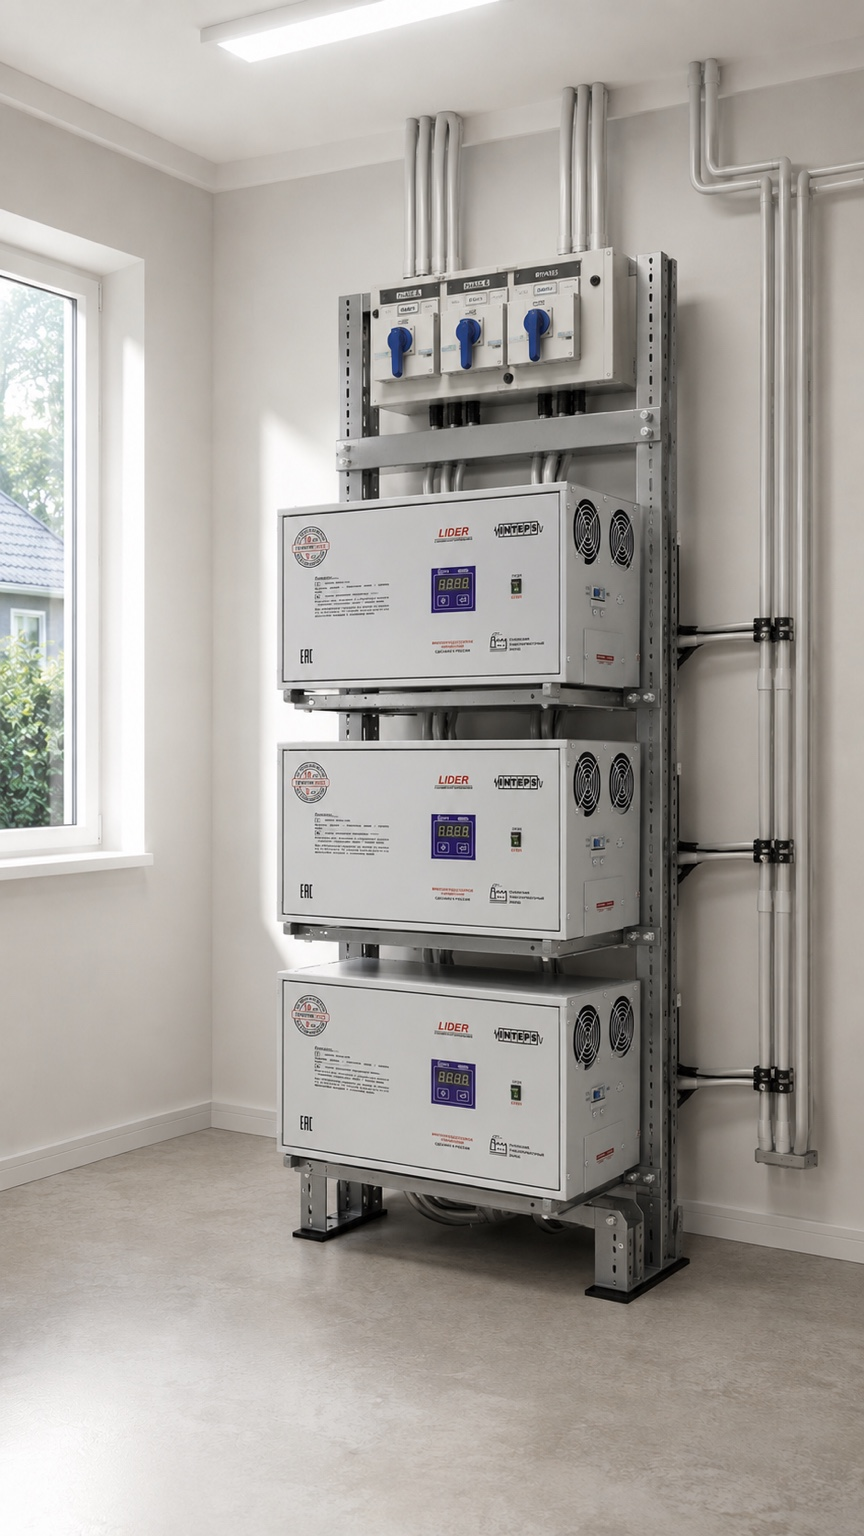
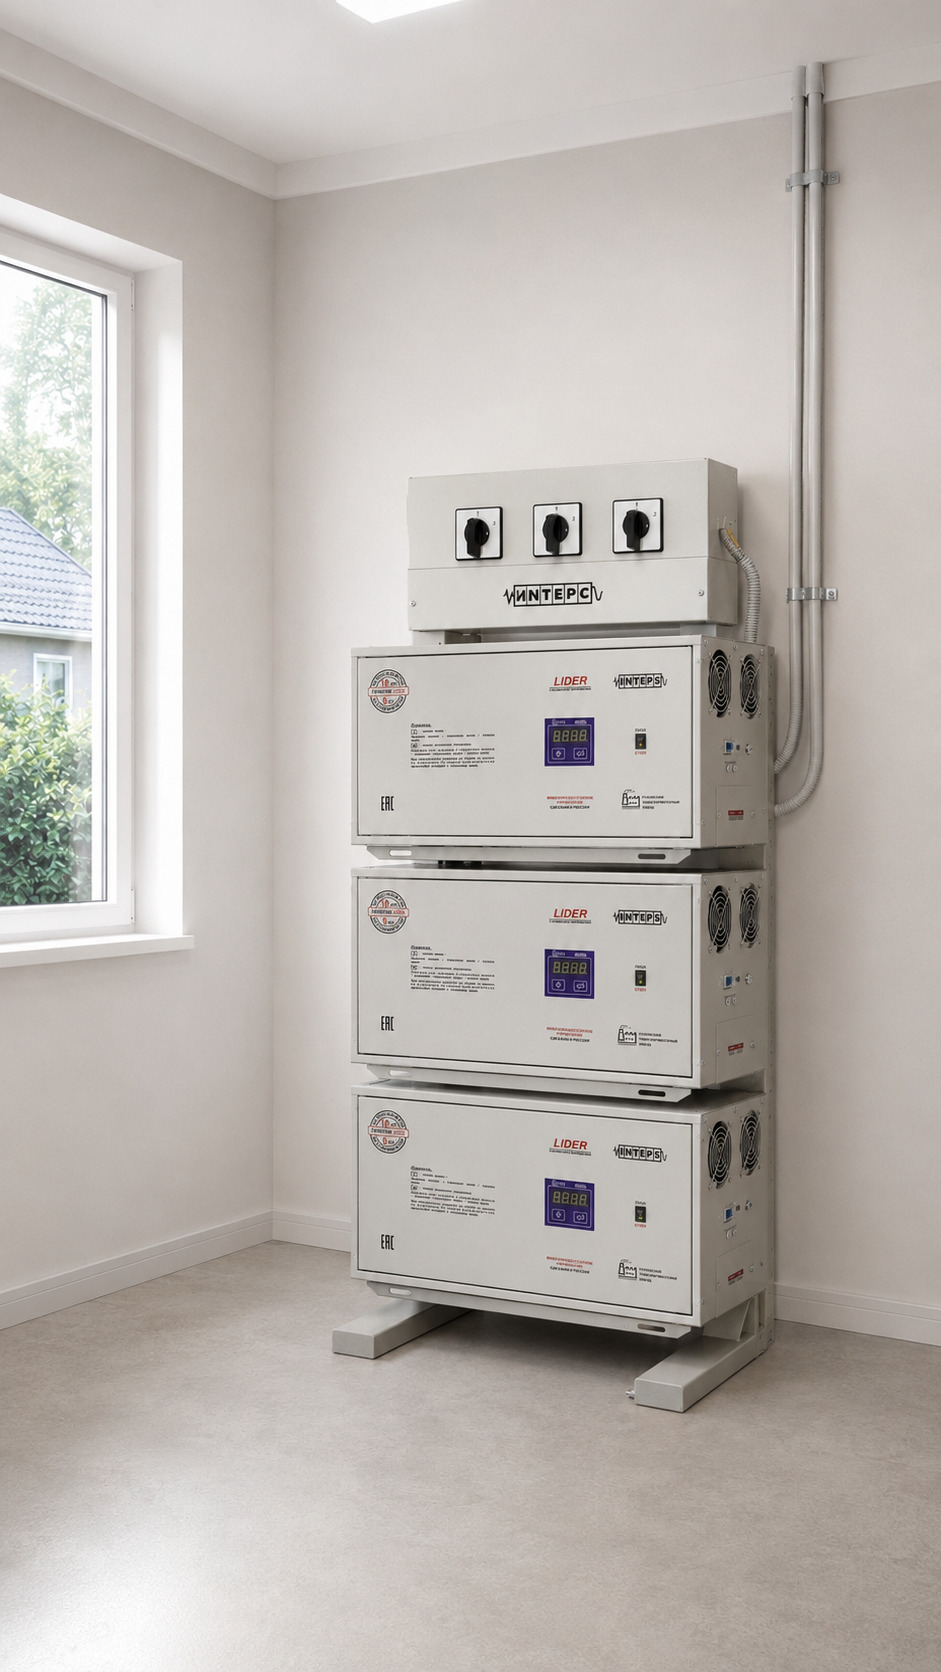
feat: match LIDER 9-36 rack geometry

diff --git a/custom_components/lider_voltage_control/frontend/lider-voltage-control-panel.js b/custom_components/lider_voltage_control/frontend/lider-voltage-control-panel.js
@@ -144,7 +144,7 @@ class LiderVoltageControlPanel extends HTMLElement {
         '<div class="overall ' + this._overallClass() + '">' + this._overallLabel() + '</div>' +
       '</section>' +
       '<section class="installation" role="img" aria-label="Трёхфазный комплект LIDER PS22W-30: три стабилизатора PS7500W-30 на стойке с внешним байпасом">' +
-        '<div class="installation-caption"><span>LIDER PS22W-30</span><strong>3 × PS7500W-30 · байпас</strong></div>' +
+        '<div class="installation-caption"><span>LIDER PS22W-30</span><strong>Стойка 9-36 · пофазный байпас</strong></div>' +
       '</section>' +
       this._summarySection("1. До стабилизаторов", ENTITY_MAP.before, "before") +
       '<div class="flow">↓ стабилизация LIDER ↓</div>' +

diff --git a/custom_components/lider_voltage_control/panel.py b/custom_components/lider_voltage_control/panel.py
@@ -16,7 +16,7 @@ PANEL_URL_PATH = "dashboard-lider"
 PANEL_PARENT_ROUTE = "/dashboard-infrastructure/overview"
 PANEL_ICON = "mdi:shield-flash"
 PANEL_WEB_COMPONENT = "lider-voltage-control-panel"
-PANEL_UI_VERSION = "0.1.1"
+PANEL_UI_VERSION = "0.1.2"
 PANEL_TEMPLATE_VERSION = "1.0"
 PANEL_STATIC_URL = "/lider_voltage_control_panel"
 PANEL_STATIC_REGISTERED = "panel_static_registered"

diff --git a/docs/PANEL.md b/docs/PANEL.md
@@ -2,7 +2,7 @@
 
 ## Назначение
 
-Объект панели — трёхфазный комплект **LIDER PS22W-30**, состоящий из трёх однофазных модулей **PS7500W-30**, установленных один над другим на коммутационной стойке с внешним ручным байпасом.
+Объект панели — трёхфазный комплект **LIDER PS22W-30**, состоящий из трёх однофазных модулей **PS7500W-30**, установленных один над другим на стойке **LIDER 9-36** с ручным пофазным байпасом.
 
 Панель показывает три независимые контрольные точки:
 

diff --git a/README.md b/README.md
@@ -2,7 +2,7 @@
 
 Специализированная read-only панель Home Assistant NikaS для контроля электросети:
 
-- трёхфазный комплект **LIDER PS22W-30**: три модуля PS7500W-30 на коммутационной стойке с ручным байпасом;
+- трёхфазный комплект **LIDER PS22W-30**: три модуля PS7500W-30 на стойке **LIDER 9-36** с ручным пофазным байпасом;
 - входящая трёхфазная сеть до стабилизаторов LIDER;
 - контрольные напряжения после стабилизаторов;
 - отдельная неотключаемая линия;
